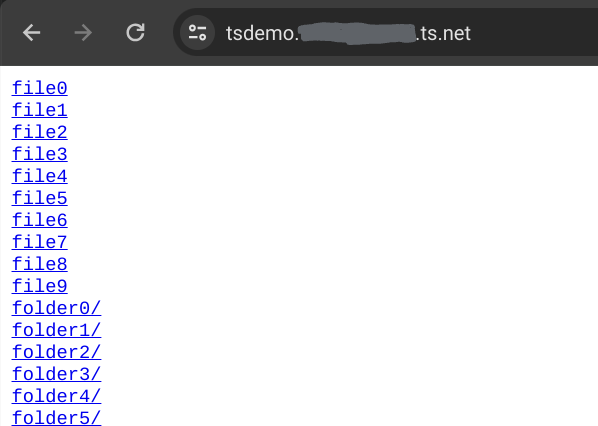
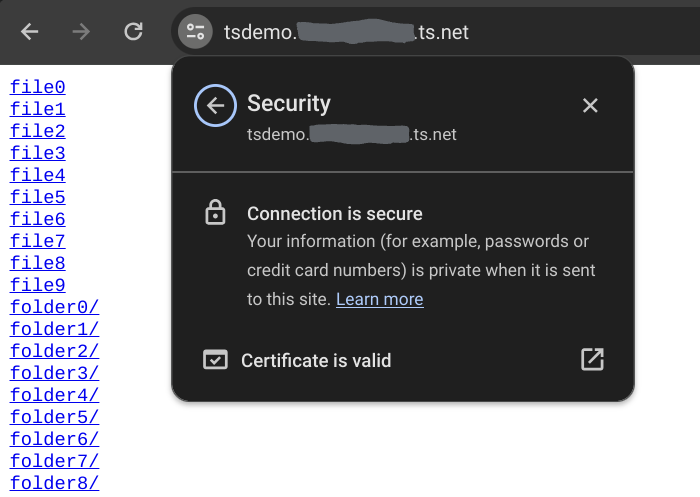
update post

diff --git a/content/posts/tailscale-ssh-serve-funnel/index.md b/content/posts/tailscale-ssh-serve-funnel/index.md
@@ -2,7 +2,7 @@
 title: "Tailscale Feature Highlight: SSH, Serve, and Funnel"
 date: 2023-12-20
 # lastmod: 2023-12-18
-description: "Exploring some of my favorite Tailscale bonus features: SSH, Serve, and Funnel."
+description: "Exploring some of my favorite Tailscale addon features: SSH, Serve, and Funnel."
 featured: false
 toc: true
 comment: true
@@ -14,7 +14,7 @@ tags:
   - vpn
 ---
 
-I've spent the past two years in love with [Tailscale](https://tailscale.com/), which builds on the [secure and high-performance Wireguard VPN protocol](/cloud-based-wireguard-vpn-remote-homelab-access/) and makes it [really easy to configure and manage](/secure-networking-made-simple-with-tailscale/). Being able to easily (and securely) access remote devices as if they were on the same LAN pretty awesome to begin with, but Tailscale is packed with an ever-expanding set of features that can really help to streamline your operations too. Here are three of my favorites.
+I've spent the past two years in love with [Tailscale](https://tailscale.com/), which builds on the [secure and high-performance Wireguard VPN protocol](/cloud-based-wireguard-vpn-remote-homelab-access/) and makes it [really easy to configure and manage](/secure-networking-made-simple-with-tailscale/). Being able to easily (and securely) access remote devices as if they were on the same LAN is pretty awesome to begin with, but Tailscale is packed with an ever-expanding set of features that can really help to streamline your operations too. Here are three of my favorites.
 
 ### Tailscale SSH
 Tailscale already takes care of issuing, rotating, and otherwise managing the Wireguard keys used for securing communications between the systems in your tailnet. [Tailscale SSH](https://tailscale.com/kb/1193/tailscale-ssh) lets it do the same for your SSH keys as well. No more manually dropping public keys on systems you're setting up for remote access. No more scrambling to figure out how to get your private key onto your mobile device so you can SSH to a server. No more worrying about who has access to what. Tailscale can solve all those concerns for you - and it does it without impacting traditional SSH operations:
@@ -33,7 +33,7 @@ To actually use the feature, though, you'll need to make sure that your Tailscal
     // Allow all connections.
     { "action": "accept", "src": ["*"], "dst": ["*:*"] },
   ],
-  "ssh": [
+  "ssh": [ // [tl! highlight:start]
     // Allow all users to SSH into their own devices in check mode.
     {
       "action": "check",
@@ -41,7 +41,7 @@ To actually use the feature, though, you'll need to make sure that your Tailscal
       "dst": ["autogroup:self"],
       "users": ["autogroup:nonroot", "root"]
     }
-  ]
+  ] // [tl! highlight:end]
 }
 ```
 
@@ -85,7 +85,13 @@ Most of my tailnet nodes are tagged with a location (`internal`/`external`) inst
 }
 ```
 
-These ACLs can get [pretty granular](https://tailscale.com/kb/1018/acls), and I think it's pretty cool to be able to codify your SSH access rules in a centrally-managed policy instead of having to manually keep track of which keys are on which systems.
+This way, SSH connections originating from `internal` systems will be accepted, while those originating from untagged systems[^web1] will have the extra check for tailnet authentication. You might also note that this policy prevents connections from tagged systems as the `root` user, requiring instead that the user log in with their own account and then escalate as needed.
+
+[^web1]: Or the Tailscale admin web console - as we'll soon see.
+
+These ACLs can get [pretty granular](https://tailscale.com/kb/1018/acls), and I think it's pretty cool to be able to codify your SSH access rules in a centrally-managed[^vcs] policy instead of having to manually keep track of which keys are on which systems.
+
+[^vcs]: And potentially [version-controlled](https://tailscale.com/kb/1204/gitops-acls).
 
 Once SSH is enabled on a tailnet node and the ACL rules are in place, you can SSH from a Tailscale-protected system to another as easily as `ssh [hostname]` and you'll be connected right away - no worrying about keys or fumbling to enter credentials. I think this is doubly cool when implemented on systems running in The Cloud; Tailscale provides the connectivity so I don't need to open up port 22 to the world.
 
@@ -100,19 +106,21 @@ Last login: Tue Dec 19 04:17:15 UTC 2023 from 100.73.92.61 on pts/3
 john@tsdemo:~$ # [tl! .nocopy:end]
 ```
 
-As a bonus, I can also open an SSH session from the Tailscale [admin console](https://login.tailscale.com/admin/machines):
+As a bonus, I can also open an SSH session from the Tailscale [admin console](https://login.tailscale.com/admin/machines)[^web2]:
 ![web_ssh_1](web_ssh_1.png)
 
 ![web_ssh_2](web_ssh_2.png)
 
 ![web_ssh_3](web_ssh_3.png)
 
+[^web2]: SSH connections originating from the admin portal are associated with that logon, so they will follow the `check` portion of the policy. The first attempt to connect will require reauthentication with Tailscale, and subsequent connections will auto-connect for the next 12 hours.
+
 That even works from mobile devices, too!
 
 ### Tailscale Serve
 I've [mentioned in the past](/federated-matrix-server-synapse-on-oracle-clouds-free-tier/#reverse-proxy-setup) how impressed I was (and still am!) by the [Caddy webserver](https://caddyserver.com/) and how effortless it makes configuring a reverse proxy with automatic TLS. I've used it for a *lot* of my externally-facing projects.
 
-Caddy is great, but it's not quite as easy to use for internal stuff - I'd need a public DNS record and inbound HTTP access in order for the ACME challenge to complete and a cert to be issued and installed. That's probably not a great fit for wanting to proxy my [Proxmox host](/ditching-vsphere-for-proxmox/#on-the-host). That's where the capabilities of [Tailscale Serve](https://tailscale.com/kb/1312/serve) really come in handy.
+Caddy is great, but it's not quite as easy to use for internal stuff - I'd need a public DNS record and inbound HTTP access in order for the ACME challenge to complete and a cert to be issued and installed, or I would have to manually create a certificate and load it in the Caddy config. That's probably not a great fit for wanting to proxy my [Proxmox host](/ditching-vsphere-for-proxmox/#on-the-host). And that is where the capabilities of [Tailscale Serve](https://tailscale.com/kb/1312/serve) really come in handy.
 
 > *Tailscale Serve is a feature that allows you to route traffic from other devices on your Tailscale network (known as a tailnet) to a local service running on your device. You can think of this as sharing the service, such as a website, with the rest of your tailnet.*
 
@@ -144,7 +152,7 @@ The command also supports some useful flags:
         Update without interactive prompts (default false)
 ```
 
-Tailscale serve be used for spawning a simple file server (like this one which shares the contents of the `/demo` directory):
+Tailscale Serve can be used for spawning a simple file server (like this one which shares the contents of the `/demo` directory):
 ```shell
 sudo tailscale serve /demo # [tl! .cmd]
 Available within your tailnet: # [tl! .nocopy:5]
@@ -157,7 +165,9 @@ Press Ctrl+C to exit.
 
 ![file server](file_server.png)
 
-Or for proxying another web server, like [Cockpit](https://cockpit-project.org/) which runs on `https://localhost:9090`:
+Note that this server is running in the foreground, and that it's serving the site with an automatically-generated automatically-trusted [Let's Encrypt](https://letsencrypt.org/) certificate.
+
+I can also use Tailscale Serve for proxying another web server, like [Cockpit](https://cockpit-project.org/), which runs on `http://localhost:9090`:
 ```shell
 sudo tailscale serve --bg 9090 # [tl! .cmd]
 Available within your tailnet: # [tl! .nocopy:6]
@@ -171,7 +181,9 @@ To disable the proxy, run: tailscale serve --https=443 off
 
 ![cockpit](cockpit.png)
 
-But what if I want to proxy another service (like [netdata](https://www.netdata.cloud/), which runs on `http://localhost:19999`) at the same time? I can either proxy it on another port:
+This time, I included the `--bg` flag so that the server would run in the background, and I told it to proxy port `9090` instead of a file path.
+
+But what if I want to proxy *another* service (like [netdata](https://www.netdata.cloud/), which runs on `http://localhost:19999`) at the same time? I can either proxy it on another port, like `8443`:
 ```shell
 sudo tailscale serve --bg --https 8443 19999 # [tl! .cmd]
 Available within your tailnet: # [tl! .nocopy:9]
@@ -204,7 +216,7 @@ To disable the proxy, run: tailscale serve --https=443 off
 ![netdata](netdata.png)
 
 {{% notice note "Stubborn Apps" %}}
-Not all web apps adapt well to being served at a different path than they expect. It works fine for netadata, but did not work with Cockpit (at least not without digging deeper into the configuration to change the base URL). But hey, that's why we've got options.
+Not all web apps adapt well to being served at a different path than they expect. It works fine for netadata, but did not work with Cockpit (at least not without digging deeper into the configuration to change the base URL). But hey, that's why we've got options!
 {{% /notice %}}
 
 ### Tailscale Funnel
@@ -274,8 +286,8 @@ Now only nodes with the `funnel` tag will be able to enable Funnel.
 
 From there, the process to activate Tailscale Funnel is basically identical to that of Tailscale Serve - you just use `tailscale funnel` instead of `tailscale serve`.
 
-{{% notice warning "Serve vs Funnel" %}}
-A given port can be served via Serve (only available within the tailnet) *or* Funnel (available within the tailnet and to the internet), but not both. If you want to Serve one resource and Funnel another, you'll need to use different ports for that.
+{{% notice warning "Funnel Ports, Not Resources" %}}
+A Funnel configuration is applied to the **port** that Tailscale Serve uses to make a resource available, not the resource itself. In the example above, I have both Cockpit and netdata being served over port `443`. If I try to use `sudo tailscale funnel --set-path /netdata 19999` to Funnel just the netdata instance, that will actually Funnel *both* resources instead of just the one.
 {{% /notice %}}
 
 If I want to make the netdata instance available publicly while keeping Cockpit internal-only, I'll need to serve netdata on a different port. Funnel [only supports](https://tailscale.com/kb/1223/funnel#limitations) ports `443`, `8443`, and `10000`, so I'll use `8443`:
@@ -292,7 +304,7 @@ To disable the proxy, run: tailscale funnel --https=8443 off
 
 It will take 10 or so minutes for the public DNS record to get created, but after that anyone on the internet (not just within my tailnet!) would be able to access the resource I've shared.
 
-I can use `tailscale serve status` to confirm that both Cockpit and netdata are served internally on port `443`, and just netdata is published externally on port `8443`:
+I can use `tailscale serve status` to confirm that both Cockpit and netdata are served internally on port `443`, but only netdata is published externally on port `8443`:
 ```shell
 sudo tailscale serve status # [tl! .cmd]
 # [tl! .nocopy:9]
